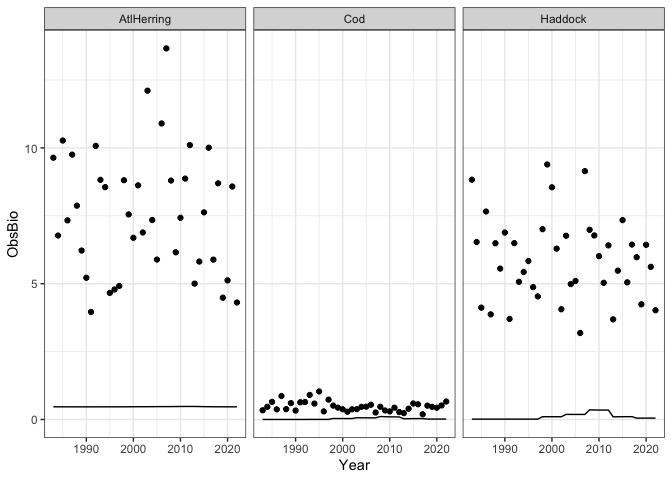
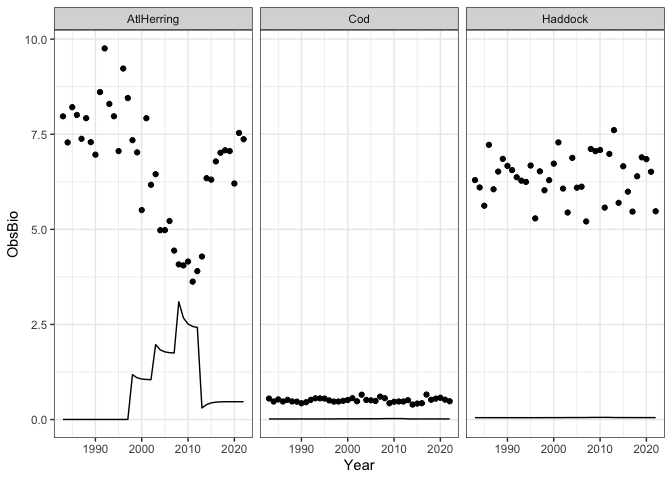
update based on new GB dat

diff --git a/multispecies/MultispeciesMSE.md b/multispecies/MultispeciesMSE.md
@@ -110,9 +110,9 @@ str(GB.data)
     ## Classes 'data.table' and 'data.frame':   120 obs. of  5 variables:
     ##  $ Year    : int  1983 1984 1985 1986 1987 1988 1989 1990 1991 1992 ...
     ##  $ Species : chr  "Cod" "Cod" "Cod" "Cod" ...
-    ##  $ ObsBio  : num  0.34 0.47 0.649 0.374 0.866 ...
-    ##  $ TotCatch: num  0.00181 0.00184 0.00186 0.00187 0.00187 ...
-    ##  $ Fmort   : num  0.00532 0.00392 0.00286 0.00499 0.00216 ...
+    ##  $ ObsBio  : num  0.552 0.475 0.529 0.473 0.518 ...
+    ##  $ TotCatch: num  0.0154 0.0154 0.0155 0.0155 0.0155 ...
+    ##  $ Fmort   : num  0.0278 0.0325 0.0292 0.0327 0.0299 ...
     ##  - attr(*, ".internal.selfref")=<externalptr>
 
 ``` r
@@ -442,27 +442,27 @@ GBcod
 ```
 
     ## $pars
-    ## [1] -0.6721430 -0.3334961 -1.1246121
+    ## [1] -0.6154117 -0.6558974 -2.2247195
     ## 
     ## $biomass
-    ##  [1] 0.5106132 0.5088062 0.5082572 0.5080804 0.5080199 0.5079981 0.5079904
-    ##  [8] 0.5079882 0.5079884 0.5079895 0.5079909 0.5062431 0.5057387 0.5055937
-    ## [15] 0.5055529 0.5055418 0.4708043 0.4603266 0.4568661 0.4558037 0.4555342
-    ## [22] 0.4239592 0.4115476 0.4062226 0.4038501 0.4027125 0.3533783 0.3293266
-    ## [29] 0.3152434 0.3057674 0.2985374 0.3601183 0.4053014 0.4320874 0.4453191
-    ## [36] 0.4510856 0.4726863 0.4813297 0.4843817 0.4854001 0.4857482
+    ##  [1] 0.5404184 0.5250409 0.5173695 0.5133596 0.5112142 0.5100532 0.5094223
+    ##  [8] 0.5090799 0.5088954 0.5087972 0.5087462 0.5087208 0.5087089 0.5087043
+    ## [15] 0.5087032 0.5087038 0.5059534 0.5045932 0.5039484 0.5036558 0.5035282
+    ## [22] 0.5007887 0.4994081 0.4987280 0.4983971 0.4982342 0.4929030 0.4901548
+    ## [29] 0.4887389 0.4880037 0.4876125 0.4966825 0.5015735 0.5040732 0.5052920
+    ## [36] 0.5058625 0.5061225 0.5062421 0.5063027 0.5063401 0.5063692
     ## 
     ## $convergence
     ## [1] 0
     ## 
     ## $nll
-    ## [1] 12.06642
+    ## [1] -33.03797
     ## 
     ## $vcov
-    ##               [,1]          [,2]         [,3]
-    ## [1,]  4.063017e-03 -1.111582e-02 8.456570e-07
-    ## [2,] -1.111582e-02  4.921633e-02 7.707793e-07
-    ## [3,]  8.456570e-07  7.707793e-07 1.219568e-02
+    ##               [,1]          [,2]          [,3]
+    ## [1,]  1.423093e-03 -1.749936e-02 -4.229697e-08
+    ## [2,] -1.749936e-02  2.602346e-01  8.139398e-07
+    ## [3,] -4.229697e-08  8.139398e-07  1.219567e-02
 
 Fit the logistic model to data (GBherring):
 
@@ -472,27 +472,27 @@ GBherring
 ```
 
     ## $pars
-    ## [1]  2.1532977 -0.9129969 -1.2057643
+    ## [1]  2.0188659  0.2364302 -2.1480052
     ## 
     ## $biomass
-    ##  [1] 8.613216 8.145220 7.855381 7.665838 7.537665 7.449056 7.386855 7.342714
-    ##  [9] 7.311140 7.288423 7.272005 7.260065 7.251253 7.244699 7.239820 7.236196
-    ## [17] 7.233165 7.229828 7.226290 7.222960 7.220118 7.217480 7.214283 7.210768
-    ## [25] 7.207448 7.204651 7.201851 7.197853 7.193099 7.188468 7.184527 7.182554
-    ## [33] 7.184497 7.189347 7.195304 7.201078 7.206201 7.210820 7.214800 7.217981
-    ## [41] 7.220333
+    ##  [1] 7.529781 7.527551 7.528080 7.527911 7.527945 7.527932 7.527935 7.527934
+    ##  [9] 7.527934 7.527934 7.527934 7.527934 7.527934 7.527934 7.527934 7.527934
+    ## [17] 6.350312 6.512945 6.561671 6.577174 6.582462 5.662317 5.609675 5.643432
+    ## [25] 5.676540 5.696087 4.357552 4.010960 3.873795 3.808987 3.771620 5.851700
+    ## [33] 7.110337 7.174143 7.146059 7.142422 7.140206 7.139688 7.139599 7.139644
+    ## [41] 7.139702
     ## 
     ## $convergence
     ## [1] 0
     ## 
     ## $nll
-    ## [1] 8.74342
+    ## [1] -29.88969
     ## 
     ## $vcov
     ##               [,1]          [,2]          [,3]
-    ## [1,]  1.027706e-02 -5.259147e-02  1.479582e-06
-    ## [2,] -5.259147e-02  3.143849e-01 -4.496047e-06
-    ## [3,]  1.479582e-06 -4.496047e-06  1.219316e-02
+    ## [1,]  4.192576e-04 -7.178308e-04 -9.523352e-07
+    ## [2,] -7.178308e-04  1.748822e-03  4.168951e-06
+    ## [3,] -9.523352e-07  4.168951e-06  1.219391e-02
 
 Fit the logistic model to data (GBhaddock):
 
@@ -502,27 +502,27 @@ GBhaddock
 ```
 
     ## $pars
-    ## [1]  1.778878 -0.370606 -1.325114
+    ## [1]  1.8535726  0.1875406 -2.3782023
     ## 
     ## $biomass
-    ##  [1] 5.923210 5.908908 5.904409 5.902975 5.902515 5.902369 5.902327 5.902319
-    ##  [9] 5.902324 5.902333 5.902343 5.902189 5.902145 5.902133 5.902130 5.902130
-    ## [17] 5.812982 5.784857 5.775775 5.772865 5.771927 5.684644 5.655044 5.644729
-    ## [25] 5.641017 5.639505 5.470069 5.408316 5.384744 5.375483 5.371466 5.618152
-    ## [33] 5.716512 5.751264 5.762671 5.766181 5.821021 5.839381 5.845343 5.847271
-    ## [41] 5.847924
+    ##  [1] 6.382582 6.333023 6.342806 6.340995 6.341386 6.341354 6.341398 6.341422
+    ##  [9] 6.341445 6.341465 6.341482 6.341497 6.341510 6.341521 6.341532 6.341542
+    ## [17] 6.340236 6.340428 6.340287 6.340202 6.340116 6.338714 6.338824 6.338615
+    ## [25] 6.338473 6.338338 6.335520 6.335750 6.335330 6.335046 6.334778 6.339565
+    ## [33] 6.338738 6.339150 6.339351 6.339568 6.339742 6.339884 6.339996 6.340086
+    ## [41] 6.340159
     ## 
     ## $convergence
     ## [1] 0
     ## 
     ## $nll
-    ## [1] 3.845693
+    ## [1] -39.32879
     ## 
     ## $vcov
     ##               [,1]          [,2]          [,3]
-    ## [1,]  2.846993e-03 -0.0424315538 -7.616471e-07
-    ## [2,] -4.243155e-02  1.4711829229  1.546270e-05
-    ## [3,] -7.616471e-07  0.0000154627  1.219577e-02
+    ## [1,]  2.989882e-04 -1.418830e-02 -1.006583e-07
+    ## [2,] -1.418830e-02  2.186002e+00  5.287660e-06
+    ## [3,] -1.006583e-07  5.287660e-06  1.219450e-02
 
 GB SS model fit plots: fitted line in gray
 
